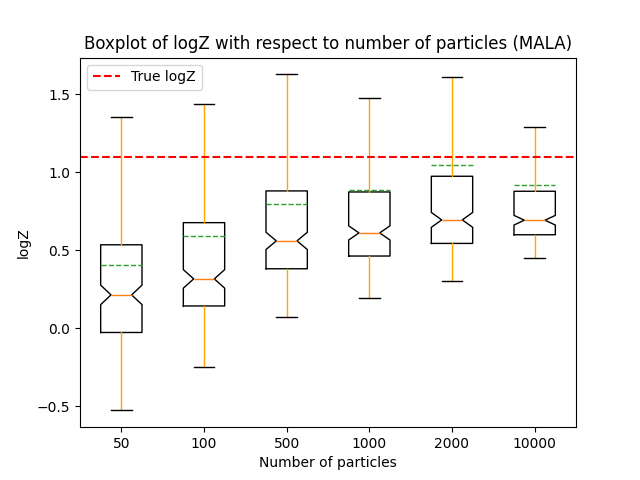
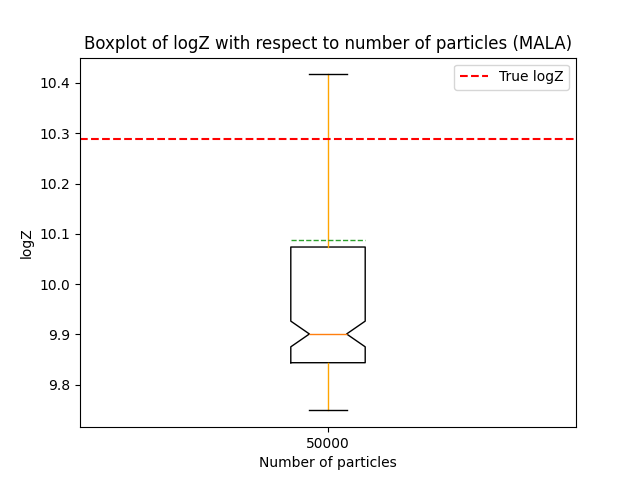
updated mixedgaussian
updated mixedgaussian

diff --git a/mcjax/proba/gaussian.py b/mcjax/proba/gaussian.py
@@ -1,7 +1,9 @@
 from .density import LogDensity
 import jax
 import jax.numpy as jnp
+import jax.random as jr
 import mcjax.util.psd as psd
+from jax.scipy.special import logsumexp
 
 
 # ==================================
@@ -9,6 +11,7 @@ import mcjax.util.psd as psd
 # The covariance matrix is a scalar multiple of the identity matrix
 # ==================================
 class IsotropicGauss(LogDensity):
+
     """ Isotropic Gaussian Distribution:
     The covariance matrix is a scalar multiple of the identity matrix
      mu: mean vector
@@ -26,17 +29,17 @@ class IsotropicGauss(LogDensity):
         self.log_var = log_var
         self.sigma = jnp.exp(0.5*self.log_var)
         self._dim = len(mu)
-        self.logdet = self.dim*self.log_var
-        self._log_Z = 0.
+        logdet = self.dim*self.log_var
+        self._log_Z = 0.5 * self.dim * jnp.log(2 * jnp.pi) + 0.5*logdet
 
     def logdensity(self, x):
-        return -0.5 * jnp.sum(jnp.square((x - self.mu[None, :]) / self.sigma)) - 0.5 * self.dim * jnp.log(2 * jnp.pi) - 0.5*self.logdet
+        return -0.5 * jnp.sum(jnp.square((x - self.mu[None, :]) / self.sigma)) - self._log_Z
     
     def batch(
             self,
             x_batch,   # (B, D): B batch size, D dimension
             ):
-        return -0.5 * jnp.sum(jnp.square((x_batch - self.mu[None, :]) / self.sigma), axis=-1) - 0.5 * self.dim * jnp.log(2 * jnp.pi) - 0.5*self.logdet 
+        return -0.5 * jnp.sum(jnp.square((x_batch - self.mu[None, :]) / self.sigma), axis=-1) - self._log_Z
     
     def grad(self, x):
         return -(x - self.mu) / self.sigma**2
@@ -52,6 +55,114 @@ class IsotropicGauss(LogDensity):
     def log_Z(self):
         """ log partition function """
         return -0.5 * self.dim * jnp.log(2 * jnp.pi) - self.dim*jnp.log(self.sigma)
+
+
+# ==================================
+# Mixed Isotropic Gaussian Distribution
+# ===============================
+class MixedIsotropicGauss(LogDensity):
+    '''
+    Mixed Isotropic Gaussian Distribution p(x) = sum_i p_i N(x|mu_i, sigma_i^2)
+    mu: vector of mean vector
+    log_var: vector of log variance
+    '''
+    def __init__(
+                self,
+                mu,         # mean vector [num_components, D]
+                log_var,    # log variance (scalar) [num_components]
+                weights  # weights of each component [num_components]
+                ):
+        # make sure that sigma is a scalar
+        assert jnp.ndim(log_var) == 1
+        # make sure that number of components is the same
+        assert mu.shape[0] == log_var.shape[0]
+        assert mu.shape[0] == len(weights)
+        # make sure that weights sum to 1
+        assert jnp.isclose(jnp.sum(weights), 1.0)
+        self.mu = mu
+        self.log_var = log_var
+        self.log_w = jnp.log(weights)
+        self.num_components = mu.shape[0]
+        self.sigma = jnp.exp(0.5*self.log_var)
+        self._dim = mu.shape[1]
+        self._log_Z = 0.
+
+    def logdensity(self, x):
+        '''
+        Compute log p(x) for an additive mixture of K isotropic Gaussians.
+        x: array of shape (D)
+        return scaar log p(xx)
+        '''
+
+        def comp_logprob(mu_i, log_var_i, log_w_i):
+            sigma_i = jnp.exp(0.5*log_var_i)
+            logdet_i = self.dim*log_var_i
+            _log_Z_i = 0.5 * self.dim * jnp.log(2 * jnp.pi) + 0.5*logdet_i
+            return log_w_i -0.5 * jnp.sum(jnp.square((x - mu_i[None, :]) / sigma_i)) - _log_Z_i
+        
+        all_logps = jax.vmap(
+            comp_logprob,
+            in_axes=(0, 0, 0)
+        )(self.mu, self.log_var,self.log_w)
+
+        return logsumexp(all_logps, axis=0)
+
+    def batch(self, 
+              x_batch # (B, D): B batch size, D dimension
+              ):
+        return jax.vmap(self.logdensity, in_axes=(0,))(x_batch)
+    
+    def grad(self, x):
+        return jax.grad(self.logdensity)(x)
+    
+    def grad_batch(self, x_batch):
+        return jax.vmap(self.grad, in_axes=(0,))(x_batch)
+    
+    def sample(self, key, n_samples):
+        key, key_ = jr.split(key)
+        weights = jnp.exp(self.log_w)
+        # draw component indices
+        z = jax.random.choice(
+            key_,
+            a=self.num_components,
+            shape=(n_samples,),
+            p=weights
+        )
+        mu_z    = self.mu[z]             
+        sigma_z = jnp.exp(0.5 * self.log_var[z])  
+
+        key, key_ = jr.split(key)
+        eps = jr.normal(key_, shape=(n_samples, self.dim))
+
+        x = mu_z + sigma_z[:, None] * eps
+        return x
+
+
+# ==================================
+# GMM40 Distribution
+# Reference: https://github.com/lollcat/fab-torch/blob/master/experiments/gmm/README.md
+# ===============================
+class GMM40(MixedIsotropicGauss):
+    def __init__(
+        self,
+        dim: int = 2,
+        n_mixes: int = 40,
+        loc_scaling: float = 40.0,
+        scale_scaling: float = 1.0,
+        weights: jnp.ndarray = jnp.ones(40) / 40.0,
+        seed: int = 0,
+        
+    ):
+        key = jax.random.PRNGKey(seed)
+        mean = jax.random.uniform(
+            key, shape=(n_mixes, dim), minval=-1.0, maxval=1.0
+        ) * loc_scaling  # shape (n_mixes, dim)
+
+        log_var = jnp.full((n_mixes,), 2.0 * jnp.log(scale_scaling))
+        super().__init__(mu=mean, log_var=log_var, weights=weights)
+
+
+
 
 
 # ==================================

diff --git a/notebooks/sequential_mc/smc_analysis.py b/notebooks/sequential_mc/smc_analysis.py
@@ -15,7 +15,7 @@ import sys
 sys.path.append('../../')
 
 from mcjax.smc.geometric_smc import GeometricSMC
-from mcjax.proba.gaussian import IsotropicGauss
+from mcjax.proba.gaussian import IsotropicGauss,GMM40
 from mcjax.proba.neal_funnel import NealFunnel
 from mcjax.proba.student import Student
 from mcjax.proba.banana2d import Banana2D
@@ -150,7 +150,19 @@ coefs = jnp.arange(N+1)/N
 # smc_test(log_gamma_0, log_gamma_T, num_particles_arr, key_, method='MALA', target='Gaussian')
 
 # --------------------------- Test With Funnel target ---------------------------
-# dim = 2
+dim = 2
+mu_0 = jnp.zeros(dim)
+sigma_0 = 1.
+log_var_0 = jnp.log(sigma_0**2)
+# log_gamma_0 = IsotropicGauss(mu=mu_0, log_var=log_var_0)
+log_gamma_0 = GMM40()
+log_gamma_T = NealFunnel(dim=dim)
+key, key_ = jr.split(key)
+smc_test(log_gamma_0, log_gamma_T, num_particles_arr, key_, method='RWM', target='Funnel')
+key, key_ = jr.split(key)
+smc_test(log_gamma_0, log_gamma_T, num_particles_arr, key_, method='MALA', target='Funnel')
+
+# dim = 10
 # mu_0 = jnp.zeros(dim)
 # sigma_0 = 1.
 # log_var_0 = jnp.log(sigma_0**2)
@@ -160,17 +172,6 @@ coefs = jnp.arange(N+1)/N
 # smc_test(log_gamma_0, log_gamma_T, num_particles_arr, key_, method='RWM', target='Funnel')
 # key, key_ = jr.split(key)
 # smc_test(log_gamma_0, log_gamma_T, num_particles_arr, key_, method='MALA', target='Funnel')
-
-dim = 10
-mu_0 = jnp.zeros(dim)
-sigma_0 = 1.
-log_var_0 = jnp.log(sigma_0**2)
-log_gamma_0 = IsotropicGauss(mu=mu_0, log_var=log_var_0)
-log_gamma_T = NealFunnel(dim=dim)
-key, key_ = jr.split(key)
-smc_test(log_gamma_0, log_gamma_T, num_particles_arr, key_, method='RWM', target='Funnel')
-key, key_ = jr.split(key)
-smc_test(log_gamma_0, log_gamma_T, num_particles_arr, key_, method='MALA', target='Funnel')
 
 # dim = 50
 # mu_0 = jnp.zeros(dim)
